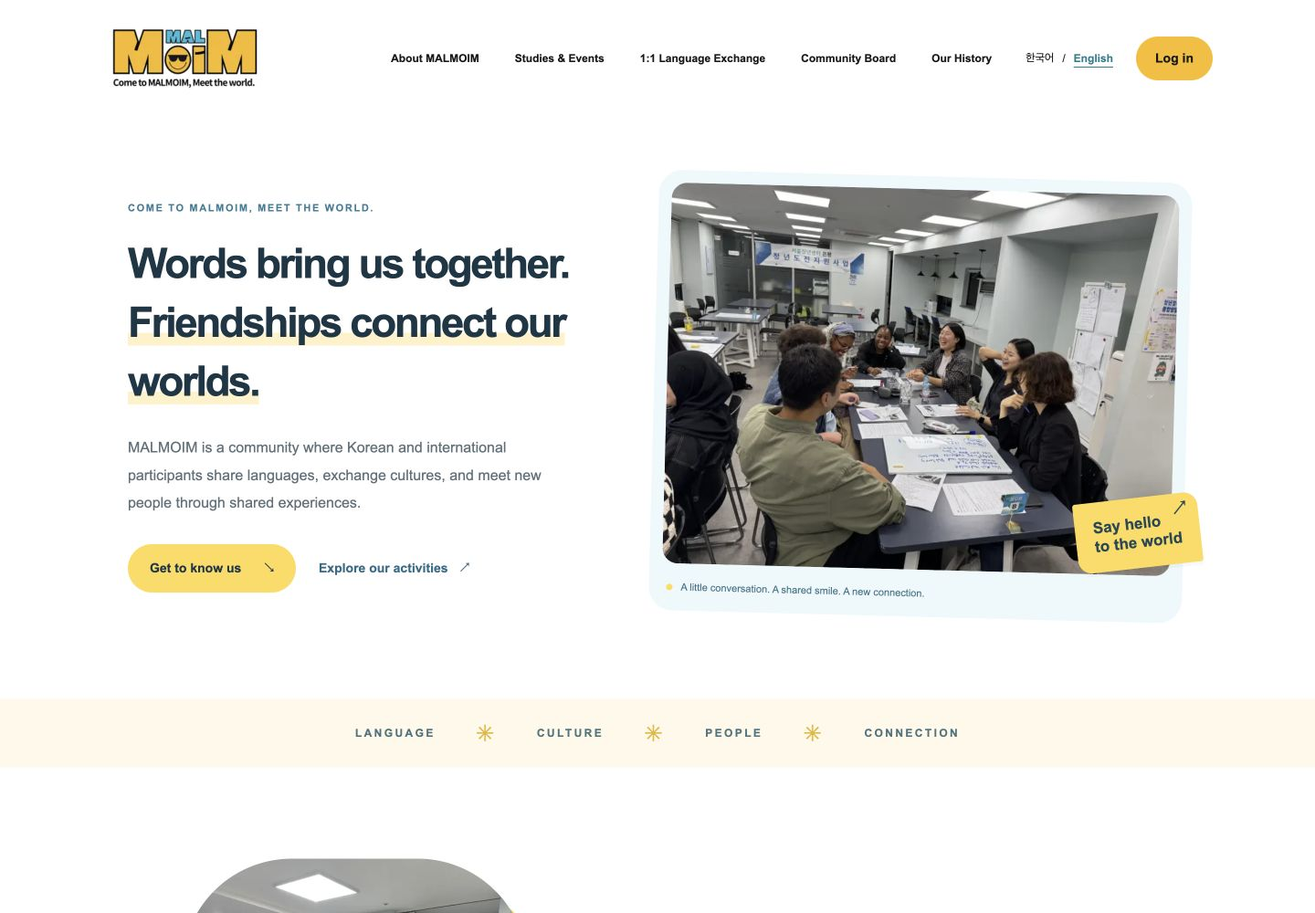
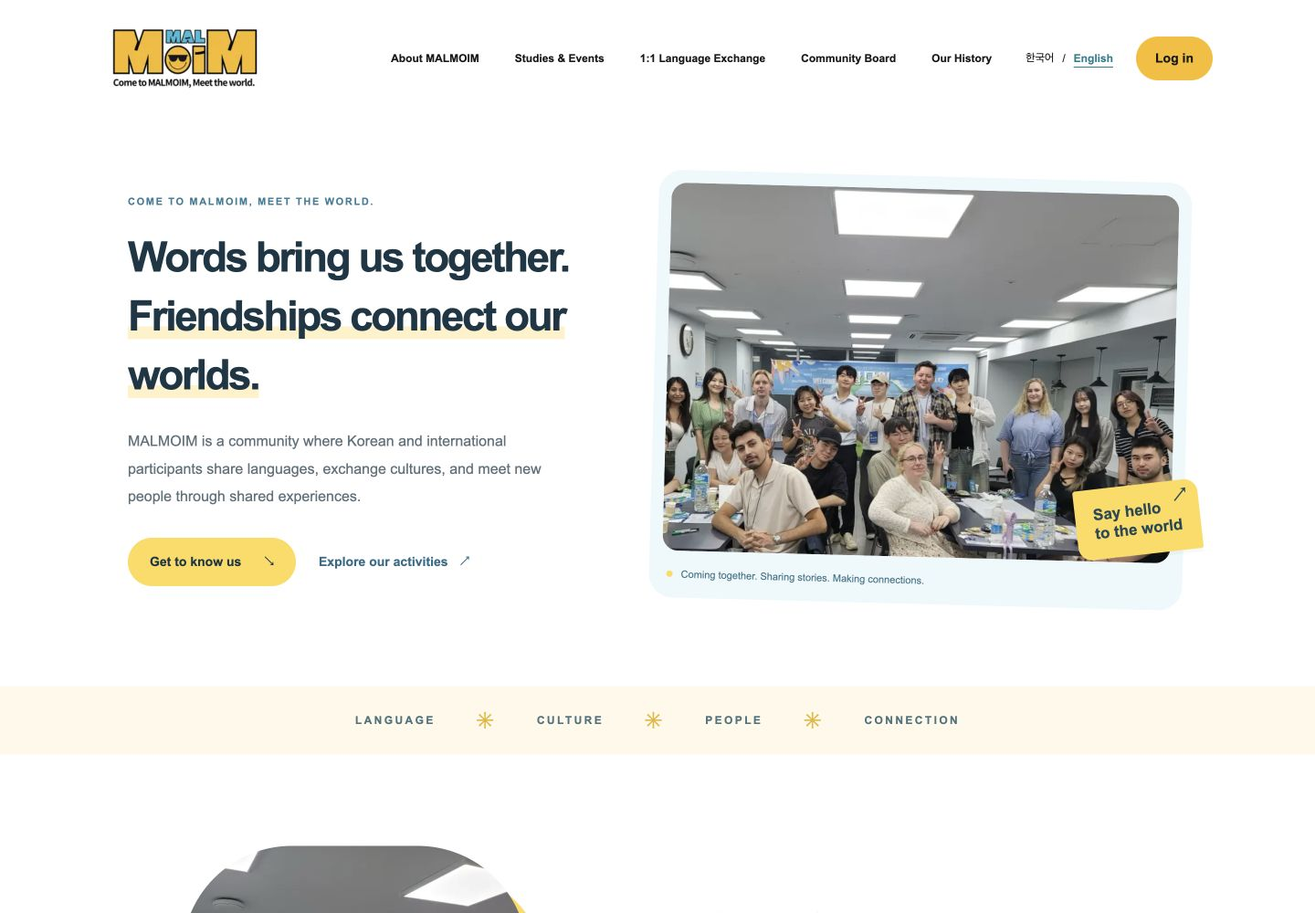
fix: replace homepage photos in the requested order

diff --git a/src/components/public-home.tsx b/src/components/public-home.tsx
@@ -15,15 +15,15 @@ export function PublicHome({ locale = 'ko' }: { locale?: PublicLocale }) {
   return <main id="public-main" className="malmoim-home" lang={locale} tabIndex={-1}>
     <section className="mh-hero mh-wrap" aria-labelledby="mh-title">
       <div className="mh-hero-copy"><p className="mh-eyebrow">COME TO MALMOIM, MEET THE WORLD.</p><h1 id="mh-title">{t('말로 이어지는 세계,', 'Words bring us together.')}<br /><span>{t('마음으로 연결되는 사람들', 'Friendships connect our worlds.')}</span></h1><p className="mh-lead">{t('말모임은 한국인과 외국인이 함께 언어와 문화를 나누고, 다양한 활동을 통해 새로운 사람들을 만나는 커뮤니티입니다.', 'MALMOIM is a community where Korean and international participants share languages, exchange cultures, and meet new people through shared experiences.')}</p><div className="mh-actions"><a className="mh-button" href="#mh-about">{t('말모임 알아보기', 'Get to know us')} <span aria-hidden="true">↘</span></a><a className="mh-link" href="#mh-activities">{t('활동 살펴보기', 'Explore our activities')} <span aria-hidden="true">↗</span></a></div></div>
-      <figure className="mh-hero-photo"><HomePhoto photo={homePhotos.hero} locale={locale} hero /><figcaption><span className="mh-photo-dot" />{t('함께 웃고, 이야기하고, 가까워지는 순간.', 'A little conversation. A shared smile. A new connection.')}</figcaption><span className="mh-photo-sticker" aria-hidden="true">Say hello<br />to the world <span>↗</span></span></figure>
+      <figure className="mh-hero-photo"><HomePhoto photo={homePhotos.hero} locale={locale} hero /><figcaption><span className="mh-photo-dot" />{t('함께 만나고, 이야기하고, 가까워지는 순간.', 'Coming together. Sharing stories. Making connections.')}</figcaption><span className="mh-photo-sticker" aria-hidden="true">Say hello<br />to the world <span>↗</span></span></figure>
     </section>
     <div className="mh-ribbon" aria-hidden="true"><span>LANGUAGE</span><span className="mh-ribbon-star">✳</span><span>CULTURE</span><span className="mh-ribbon-star">✳</span><span>PEOPLE</span><span className="mh-ribbon-star">✳</span><span>CONNECTION</span></div>
-    <section id="mh-about" className="mh-about mh-section mh-wrap" aria-labelledby="mh-about-title"><figure className="mh-intro-photo"><HomePhoto photo={homePhotos.intro} locale={locale} /><figcaption>{t('서로의 이야기에 귀 기울이는 시간', 'Making room for each other’s stories')}</figcaption></figure><div className="mh-about-copy"><p className="mh-eyebrow">HELLO, WE’RE MALMOIM</p><h2 id="mh-about-title">{t('말 한마디로 시작되는', 'Every connection starts')}<br />{t('새로운 만남', 'with a simple hello.')}</h2><p>{t('말모임에서는 서로 다른 언어와 문화를 가진 사람들이 만납니다. 함께 대화하며 언어를 연습하고, 다양한 활동을 통해 서로를 알아갑니다.', 'At MALMOIM, people with different languages and cultures come together. We practice through conversation and get to know one another through shared activities.')}</p><p>{t('새로운 말을 배우는 즐거움부터 새로운 사람들과 함께하는 순간까지, 말모임에서 여러분의 이야기를 나눠보세요.', 'From the joy of learning a new expression to the moments you share with new friends, there’s room for your story at MALMOIM.')}</p><span className="mh-handwritten">{t('다른 언어, 함께하는 우리.', 'Different languages. A world in common.')}</span></div></section>
+    <section id="mh-about" className="mh-about mh-section mh-wrap" aria-labelledby="mh-about-title"><figure className="mh-intro-photo"><HomePhoto photo={homePhotos.intro} locale={locale} /><figcaption>{t('함께 활동하며 알아가는 시간', 'Getting to know each other through shared activities')}</figcaption></figure><div className="mh-about-copy"><p className="mh-eyebrow">HELLO, WE’RE MALMOIM</p><h2 id="mh-about-title">{t('말 한마디로 시작되는', 'Every connection starts')}<br />{t('새로운 만남', 'with a simple hello.')}</h2><p>{t('말모임에서는 서로 다른 언어와 문화를 가진 사람들이 만납니다. 함께 대화하며 언어를 연습하고, 다양한 활동을 통해 서로를 알아갑니다.', 'At MALMOIM, people with different languages and cultures come together. We practice through conversation and get to know one another through shared activities.')}</p><p>{t('새로운 말을 배우는 즐거움부터 새로운 사람들과 함께하는 순간까지, 말모임에서 여러분의 이야기를 나눠보세요.', 'From the joy of learning a new expression to the moments you share with new friends, there’s room for your story at MALMOIM.')}</p><span className="mh-handwritten">{t('다른 언어, 함께하는 우리.', 'Different languages. A world in common.')}</span></div></section>
     <section className="mh-session-section" aria-labelledby="mh-session-title"><div className="mh-session mh-wrap mh-section"><div className="mh-session-copy"><p className="mh-eyebrow">MALMOIM REGULAR SESSION</p><h2 id="mh-session-title">{t('언어를 나누고,', 'Share a language.')}<br />{t('사람을 만나는 ', 'Make a connection in ')}<span>{t('6주', '6 weeks.')}</span></h2><p>{t('말모임 정규 세션에서는 한국인과 외국인이 함께 만나 언어를 연습하고 서로의 이야기를 나눕니다.', 'Our regular sessions bring Korean and international participants together to practice languages and share their stories.')}</p><p>{t('6주 동안 주 2회 운영되며, 대화와 교류를 통해 서로를 알아가는 시간을 만들어갑니다.', 'Sessions run twice a week over six weeks, creating space to talk, exchange, and get to know one another.')}</p><ul className="mh-session-facts"><li><b>6</b><span>{t('주 프로그램', 'week program')}</span></li><li><b>2</b><span>{t('주 2회 운영', 'sessions each week')}</span></li><li><b>↔</b><span>{t('함께하는 언어교환', 'language exchange')}</span></li></ul><p className="mh-session-note">{t('목요일·토요일에 운영하며, 9기 참여자는 희망 요일에 주 1회 참여합니다. 특별 행사·파티·축제·MT는 별도 활동입니다.', 'Sessions run on Thursdays and Saturdays. Season 9 participants attend once a week on their chosen day. Outdoor events, parties, festivals, and getaways are separate activities.')}</p><Link className="mh-button" href={en ? '/season9/en' : '/season9'}>{t('정규 세션 알아보기', 'Explore regular sessions')} <span aria-hidden="true">↗</span></Link></div><figure className="mh-session-photo"><HomePhoto photo={homePhotos.session} locale={locale} /><figcaption><span>01 / REGULAR SESSION</span>{t('이야기를 나누는 사이, 조금 더 가까이.', 'A little closer with every conversation.')}</figcaption></figure></div></section>
-    <section id="mh-activities" className="mh-section mh-wrap" aria-labelledby="mh-activities-title"><div className="mh-section-heading"><div><p className="mh-eyebrow">MORE WAYS TO CONNECT</p><h2 id="mh-activities-title">{t('말모임에서는 이런 순간을 함께해요', 'There’s more than one way to connect.')}</h2></div><p>{t('대화로 시작된 만남은 다양한 경험과 추억으로 이어집니다.', 'What starts with a conversation grows into shared experiences and memories.')}</p></div><div className="mh-activities">{homeActivities.map((activity, index) => <article key={activity.id} className={`mh-activity mh-activity-${activity.id} mh-tone-${activity.tone}`}><div className="mh-activity-visual">{index === 0 ? <HomePhoto photo={homePhotos.outdoors} locale={locale} /> : <div className="mh-type-art" aria-hidden="true"><span>{activity.motif}</span><b>{index === 1 ? '✳' : index === 2 ? '↗' : '↔'}</b></div>}</div><div className="mh-activity-copy"><p className="mh-activity-label"><span>0{index + 1}</span>{homeWords(activity.label, locale)}</p><h3>{homeWords(activity.title, locale)}</h3><p>{homeWords(activity.description, locale)}</p></div></article>)}</div></section>
+    <section id="mh-activities" className="mh-section mh-wrap" aria-labelledby="mh-activities-title"><div className="mh-section-heading"><div><p className="mh-eyebrow">MORE WAYS TO CONNECT</p><h2 id="mh-activities-title">{t('말모임에서는 이런 순간을 함께해요', 'There’s more than one way to connect.')}</h2></div><p>{t('대화로 시작된 만남은 다양한 경험과 추억으로 이어집니다.', 'What starts with a conversation grows into shared experiences and memories.')}</p></div><div className="mh-activities">{homeActivities.map((activity, index) => <article key={activity.id} className={`mh-activity mh-activity-${activity.id} mh-tone-${activity.tone}`}><div className="mh-activity-visual"><HomePhoto photo={activity.photo} locale={locale} /></div><div className="mh-activity-copy"><p className="mh-activity-label"><span>0{index + 1}</span>{homeWords(activity.label, locale)}</p><h3>{homeWords(activity.title, locale)}</h3><p>{homeWords(activity.description, locale)}</p></div></article>)}</div></section>
     <section className="mh-audience-section" aria-labelledby="mh-audience-title"><div className="mh-wrap mh-section"><div className="mh-section-heading"><div><p className="mh-eyebrow">DIFFERENT WORDS, SHARED EXCITEMENT</p><h2 id="mh-audience-title">{t('서로 다른 언어, 같은 설렘', 'Different languages. The same excitement.')}</h2></div></div><div className="mh-audience">{homeAudience.map((audience, index) => <article key={index}><span className="mh-audience-label">{homeWords(audience.label, locale)}</span><h3>{homeWords(audience.title, locale)}</h3><ul>{audience.points.map((point, n) => <li key={n}><span aria-hidden="true">↗</span>{homeWords(point, locale)}</li>)}</ul></article>)}</div></div></section>
     <section id="mh-programs" className="mh-section mh-wrap" aria-labelledby="mh-programs-title"><div className="mh-section-heading"><div><p className="mh-eyebrow">YOUR NEXT CHAPTER</p><h2 id="mh-programs-title">{t('말모임의 다음 이야기에 함께하세요', 'Be part of our next chapter.')}</h2></div><p>{t('지금 참여할 수 있는 프로그램과 새로운 소식을 확인해보세요.', 'Explore program details, opportunities to join, and the latest news.')}</p></div><PublicHomePrograms locale={locale} /><div className="mh-more-programs"><Link className="mh-link" href={publicPath(locale, 'events')}>{t('스터디·이벤트 모두 보기', 'All studies & events')} <span aria-hidden="true">↗</span></Link></div></section>
-    <section className="mh-moments-section" aria-labelledby="mh-moments-title"><div className="mh-wrap mh-section"><div className="mh-section-heading"><div><p className="mh-eyebrow">THE MOMENTS WE SHARE</p><h2 id="mh-moments-title">{t('함께해서 더 특별했던 순간들', 'Ordinary moments. Extraordinary company.')}</h2></div><p>{t('말모임에서 만나고 함께했던 다양한 순간들을 만나보세요.', 'A glimpse of the conversations, discoveries, and moments we’ve shared.')}</p></div><div className="mh-gallery">{[{ photo: homePhotos.night, caption: t('함께 빛나는 순간', 'A moment to shine together') }, { photo: homePhotos.making, caption: t('함께 만들어가는 즐거움', 'The joy of making something together') }, { photo: homePhotos.table, caption: t('식탁에서 이어지는 이야기', 'Stories around the table') }].map(({ photo, caption }) => <figure key={photo.src}><HomePhoto photo={photo} locale={locale} /><figcaption>{caption}</figcaption></figure>)}</div><div className="mh-history-link"><Link className="mh-link" href={publicPath(locale, 'history')}>{t('말모임 히스토리 더 보기', 'More from our history')} <span aria-hidden="true">↗</span></Link></div></div></section>
+    <section className="mh-moments-section" aria-labelledby="mh-moments-title"><div className="mh-wrap mh-section"><div className="mh-section-heading"><div><p className="mh-eyebrow">THE MOMENTS WE SHARE</p><h2 id="mh-moments-title">{t('함께해서 더 특별했던 순간들', 'Ordinary moments. Extraordinary company.')}</h2></div><p>{t('말모임에서 만나고 함께했던 다양한 순간들을 만나보세요.', 'A glimpse of the conversations, discoveries, and moments we’ve shared.')}</p></div><div className="mh-gallery">{[{ photo: homePhotos.hanbok, caption: t('새로운 문화를 함께 만나는 순간', 'Discovering culture together') }, { photo: homePhotos.conversation, caption: t('대화로 조금 더 가까이', 'A little closer through conversation') }, { photo: homePhotos.outing, caption: t('새로운 장소에서 함께 남긴 기억', 'Shared memories in a new place') }].map(({ photo, caption }) => <figure key={photo.src}><HomePhoto photo={photo} locale={locale} /><figcaption>{caption}</figcaption></figure>)}</div><div className="mh-history-link"><Link className="mh-link" href={publicPath(locale, 'history')}>{t('말모임 히스토리 더 보기', 'More from our history')} <span aria-hidden="true">↗</span></Link></div></div></section>
     <section className="mh-final mh-wrap mh-section" aria-labelledby="mh-final-title"><p className="mh-eyebrow">COME AS YOU ARE. START WITH HELLO.</p><h2 id="mh-final-title">{t('우리의 다음 이야기를', 'The next chapter starts')}<br /><span>{t('함께 만들어요', 'with you.')}</span></h2><p>{t('언어와 문화, 그리고 사람을 만나는 시간.', 'Languages, cultures, and the people who connect them.')}<br />{t('말모임에서 새로운 이야기를 시작해보세요.', 'Start a new story at MALMOIM.')}</p><div className="mh-actions"><a className="mh-button" href="#mh-programs">{t('프로그램 살펴보기', 'Explore programs')} <span aria-hidden="true">↗</span></a><a className="mh-link" href={homeContact} target="_blank" rel="noopener noreferrer">{t('말모임 문의하기', 'Contact MALMOIM')} <span aria-hidden="true">↗</span></a></div></section>
   </main>;
 }

diff --git a/src/lib/public-home-content.ts b/src/lib/public-home-content.ts
@@ -4,20 +4,23 @@ export type HomeWords = { ko: string; en: string };
 export const homeWords = (words: HomeWords, locale: PublicLocale) => words[locale];
 const words = (ko: string, en: string): HomeWords => ({ ko, en });
 export const homePhotos = {
-  hero: { src: '/home/moments/conversation.webp', width: 1600, height: 1200, alt: words('테이블에 둘러앉아 함께 웃으며 대화하는 말모임 참여자들', 'MALMOIM participants laughing and talking around a table') },
-  intro: { src: '/home/moments/table-talk.webp', width: 1200, height: 1600, alt: words('활동지를 펼쳐 놓고 서로의 이야기에 귀 기울이는 참여자들', 'Participants listening to one another with activity sheets on the table') },
-  session: { src: '/home/moments/session.webp', width: 1600, height: 1200, alt: words('화이트보드와 활동지를 활용해 소그룹으로 대화하는 참여자들', 'A small group talking with activity sheets and a whiteboard') },
-  outdoors: { src: '/home/moments/outdoors.webp', width: 1600, height: 1200, alt: words('나무가 있는 야외에서 말모임 현수막을 들고 함께 기념사진을 찍는 참여자들', 'Participants holding a MALMOIM banner for a group photo outdoors') },
-  night: { src: '/home/moments/night-together.webp', width: 1600, height: 900, alt: words('밤에 야외에서 스파클러를 들고 함께 시간을 보내는 참여자들', 'Participants spending an evening together outdoors with sparklers') },
-  table: { src: '/home/moments/at-the-table.webp', width: 1600, height: 1200, alt: words('식탁에 둘러앉아 함께 기념사진을 찍는 참여자들', 'Participants gathered around a dining table for a photo') },
-  making: { src: '/home/moments/making.webp', width: 1200, height: 1600, alt: words('함께 웃으며 종이와 막대로 연을 만드는 참여자들', 'Participants smiling while making a kite with paper and sticks') },
-  group: { src: '/home/moments/group.webp', width: 1600, height: 1159, alt: words('모임 공간에서 함께 단체사진을 찍는 참여자들', 'Participants posing together in the meeting space') },
+  hero: { src: '/home/moments/hero-group.webp', width: 1600, height: 1159, alt: words('모임 공간에서 함께 기념사진을 찍는 말모임 참여자들', 'MALMOIM participants posing for a group photo in the meeting space') },
+  intro: { src: '/home/moments/intro-whiteboard.webp', width: 1220, height: 1600, alt: words('화이트보드를 들어 보이며 함께 활동하는 참여자들', 'Participants taking part in a group activity with a whiteboard') },
+  session: { src: '/home/moments/regular-session.webp', width: 1600, height: 1200, alt: words('정규 세션에서 테이블에 둘러앉아 활동지를 들어 보이는 참여자들', 'Participants sitting around a table and holding up activity sheets during a regular session') },
+  outdoors: { src: '/home/moments/outdoors-banner.webp', width: 1200, height: 1600, alt: words('나무가 있는 야외에서 말모임 현수막을 함께 들고 있는 참여자들', 'Participants holding a MALMOIM banner together outdoors among the trees') },
+  party: { src: '/home/moments/party-table.webp', width: 1600, height: 1200, alt: words('식탁에 둘러앉아 함께 기념사진을 찍는 말모임 참여자들', 'MALMOIM participants gathered around a dining table for a photo') },
+  festival: { src: '/home/moments/festival-booth.webp', width: 1600, height: 1200, alt: words('축제 현장의 말모임 체험 부스에서 함께 사진을 찍는 참여자들', 'Participants posing at the MALMOIM activity booth at a festival') },
+  mt: { src: '/home/moments/mt-sparklers.webp', width: 1600, height: 900, alt: words('밤에 야외에서 스파클러를 들고 함께하는 참여자들', 'Participants spending an evening outdoors together with sparklers') },
+  group: { src: '/home/moments/program-session.webp', width: 1600, height: 1200, alt: words('모임 공간에서 여러 소그룹으로 나뉘어 활동하는 참여자들', 'Participants taking part in small-group activities in the meeting space') },
+  hanbok: { src: '/home/moments/gallery-hanbok.webp', width: 1600, height: 1200, alt: words('한복을 입고 청사초롱 장식 아래 함께 서 있는 참여자들', 'Participants wearing hanbok and posing together beneath lantern decorations') },
+  conversation: { src: '/home/moments/gallery-conversation.webp', width: 1200, height: 1600, alt: words('테이블에 둘러앉아 활동지를 함께 보며 대화하는 참여자들', 'Participants talking around a table while looking at activity sheets together') },
+  outing: { src: '/home/moments/gallery-outing.webp', width: 1200, height: 1600, alt: words('한옥 건물 앞에서 말모임 현수막을 들고 기념사진을 찍는 참여자들', 'Participants holding a MALMOIM banner for a group photo in front of a hanok building') },
 } as const;
 export const homeActivities = [
-  { id: 'outdoors', label: words('특별 야외행사', 'Outdoor events'), title: words('새로운 장소에서\n함께하는 시간', 'New places.\nShared experiences.'), description: words('일상을 벗어나 다양한 장소에서 만나고 교류합니다.', 'Step out of the everyday to meet and connect in different places.'), motif: 'OUT\n& ABOUT', tone: 'sky' },
-  { id: 'party', label: words('파티', 'Parties'), title: words('함께여서\n더 즐거운 파티', 'Good company.\nGreat moments.'), description: words('새로운 사람들과 어울리며 즐거운 순간을 나눕니다.', 'Meet new people and share moments of joy together.'), motif: 'HELLO,\nFRIENDS!', tone: 'yellow' },
-  { id: 'festival', label: words('축제 참여 및 부스 운영', 'Festivals & community booths'), title: words('축제 속에서\n만나는 말모임', 'Meet MALMOIM\nat the festival.'), description: words('축제에 참여하고 부스를 운영하며 다양한 사람들을 만납니다.', 'Take part in festivals and run booths, connecting with people along the way.'), motif: 'MEET\nMALMOIM', tone: 'cream' },
-  { id: 'mt', label: words('MT', 'Community getaways'), title: words('더 가까워지는 우리', 'A little closer, together.'), description: words('함께 시간을 보내며 말모임의 새로운 추억을 만듭니다.', 'Spend time together and make new MALMOIM memories.'), motif: 'CLOSER\nTOGETHER', tone: 'blue' },
+  { id: 'outdoors', label: words('특별 야외행사', 'Outdoor events'), title: words('새로운 장소에서\n함께하는 시간', 'New places.\nShared experiences.'), description: words('일상을 벗어나 다양한 장소에서 만나고 교류합니다.', 'Step out of the everyday to meet and connect in different places.'), photo: homePhotos.outdoors, tone: 'sky' },
+  { id: 'party', label: words('파티', 'Parties'), title: words('함께여서\n더 즐거운 파티', 'Good company.\nGreat moments.'), description: words('새로운 사람들과 어울리며 즐거운 순간을 나눕니다.', 'Meet new people and share moments of joy together.'), photo: homePhotos.party, tone: 'yellow' },
+  { id: 'festival', label: words('축제 참여 및 부스 운영', 'Festivals & community booths'), title: words('축제 속에서\n만나는 말모임', 'Meet MALMOIM\nat the festival.'), description: words('축제에 참여하고 부스를 운영하며 다양한 사람들을 만납니다.', 'Take part in festivals and run booths, connecting with people along the way.'), photo: homePhotos.festival, tone: 'cream' },
+  { id: 'mt', label: words('MT', 'Community getaways'), title: words('더 가까워지는 우리', 'A little closer, together.'), description: words('함께 시간을 보내며 말모임의 새로운 추억을 만듭니다.', 'Spend time together and make new MALMOIM memories.'), photo: homePhotos.mt, tone: 'blue' },
 ] as const;
 // Edit upcoming programs here. Existing application/registration logic remains in the Season 9 routes.
 export const homePrograms = [{

diff --git a/src/components/public-home-design.css b/src/components/public-home-design.css
@@ -6,3 +6,7 @@
 @media(max-width:900px){.malmoim-home .mh-wrap{padding-inline:30px}.malmoim-home .mh-section{padding-block:75px}.malmoim-home .mh-hero{grid-template-columns:1fr;padding-block:45px 65px;gap:45px}.malmoim-home .mh-hero-copy{max-width:670px}.malmoim-home .mh-hero h1{font-size:44px}.malmoim-home .mh-lead{max-width:620px}.malmoim-home .mh-hero-photo{max-width:700px;width:100%;margin:auto;transform:none}.malmoim-home .mh-photo-sticker{right:-10px}.malmoim-home .mh-hero-photo img{max-height:none}.malmoim-home .mh-ribbon{gap:25px;font-size:10px}.malmoim-home .mh-about{gap:35px}.malmoim-home .mh-intro-photo{width:90%}.malmoim-home .mh-session{grid-template-columns:1fr;gap:35px}.malmoim-home .mh-session-copy{max-width:650px}.malmoim-home .mh-activity-copy{padding:26px}.malmoim-home .mh-type-art{min-height:210px;padding:26px}.malmoim-home .mh-activity-party .mh-type-art{min-height:260px}.malmoim-home .mh-type-art>span{font-size:44px}.malmoim-home .mh-type-art>b{font-size:155px}.malmoim-home .mh-audience h3{font-size:26px}.malmoim-home .mh-program{grid-template-columns:1fr 1fr}.malmoim-home .mh-program-body{padding:25px}.malmoim-home .mh-program h3{font-size:30px}}
 @media(max-width:760px){.malmoim-home .mh-wrap{padding-inline:24px}.malmoim-home .mh-section{padding-block:60px}.malmoim-home .mh-hero{padding-block:35px 55px;gap:35px}.malmoim-home .mh-hero h1{font-size:clamp(30px,6vw,42px);line-height:1.45;margin-bottom:23px}.malmoim-home .mh-eyebrow{font-size:9px;margin-bottom:17px}.malmoim-home .mh-lead{font-size:15px;line-height:1.9;margin-bottom:26px}.malmoim-home .mh-actions{gap:20px}.malmoim-home .mh-button{font-size:13px;padding:14px 21px;min-height:50px;gap:20px}.malmoim-home .mh-link{font-size:13px}.malmoim-home .mh-hero-photo{padding:9px 9px 0;border-radius:19px}.malmoim-home .mh-hero-photo img{border-radius:12px}.malmoim-home .mh-hero-photo figcaption{font-size:10px;padding:14px 5px}.malmoim-home .mh-photo-sticker{font-size:13px;padding:14px 17px;bottom:48px;right:-6px}.malmoim-home .mh-ribbon{gap:15px;font-size:8px;letter-spacing:.12em;padding:22px 15px}.malmoim-home .mh-ribbon-star{font-size:16px}.malmoim-home h2{font-size:30px;line-height:1.4;margin-bottom:22px}.malmoim-home p{font-size:15px}.malmoim-home .mh-about{display:flex;flex-direction:column-reverse;gap:36px}.malmoim-home .mh-about-copy{width:100%}.malmoim-home .mh-about-copy p:not(.mh-eyebrow){max-width:none}.malmoim-home .mh-intro-photo{width:min(360px,85%)}.malmoim-home .mh-handwritten{font-size:14px}.malmoim-home .mh-session-facts b{font-size:32px}.malmoim-home .mh-session-facts span{font-size:11px}.malmoim-home .mh-session-note{font-size:12px}.malmoim-home .mh-session-photo figcaption{padding-bottom:0}.malmoim-home .mh-section-heading{gap:16px;margin-bottom:30px}.malmoim-home .mh-section-heading>p{font-size:14px;flex-shrink:1}.malmoim-home .mh-activities{grid-template-columns:1fr;gap:22px}.malmoim-home .mh-activity{border-radius:19px}.malmoim-home .mh-activity-copy{padding:25px}.malmoim-home .mh-activity h3{font-size:26px}.malmoim-home .mh-type-art{min-height:200px;padding:30px}.malmoim-home .mh-activity-party .mh-type-art{min-height:220px}.malmoim-home .mh-type-art>span{font-size:51px}.malmoim-home .mh-type-art>b{font-size:180px}.malmoim-home .mh-audience{grid-template-columns:1fr;gap:36px}.malmoim-home .mh-audience article{padding-top:28px}.malmoim-home .mh-audience h3{font-size:27px}.malmoim-home .mh-audience li{font-size:14px}.malmoim-home .mh-program{grid-template-columns:1fr;border-radius:20px}.malmoim-home .mh-program-photo{padding:15px}.malmoim-home .mh-program-body{padding:28px}.malmoim-home .mh-program h3{font-size:32px}.malmoim-home .mh-gallery{grid-template-columns:1fr;gap:23px}.malmoim-home .mh-gallery figure:nth-child(2){grid-column:auto;grid-row:auto;width:80%;margin-inline:auto}.malmoim-home .mh-gallery figure:nth-child(3){width:100%}.malmoim-home .mh-gallery figcaption{font-size:11px}.malmoim-home .mh-final h2{font-size:35px}.malmoim-home .mh-final p:not(.mh-eyebrow){font-size:15px}}
 @media(prefers-reduced-motion:reduce){.malmoim-home *{scroll-behavior:auto;transition:none}}
+/* All four activity panels now use user-selected photographs, with full scenes preserved. */
+.malmoim-home .mh-activity-party .mh-activity-visual{display:block;flex:initial}
+.malmoim-home .mh-activity-visual{background:#fff}
+@media(min-width:761px){.malmoim-home .mh-activity-visual,.malmoim-home .mh-activity-party .mh-activity-visual{height:360px;display:flex;align-items:center;justify-content:center;background:transparent}.malmoim-home .mh-activity-visual img{height:100%;width:100%;object-fit:contain}}

diff --git a/src/lib/public-metadata.ts b/src/lib/public-metadata.ts
@@ -6,5 +6,5 @@ export function publicMetadata(locale:PublicLocale,slug=""):Metadata {
   if(slug&&!page)notFound();
   const title=page?.title??(locale==="en"?"MALMOIM":"말모임 MALMOIM");
   const description=page?.description??(locale==="en"?"Words bring us together. Friendships connect our worlds. Meet MALMOIM, a community sharing languages, cultures, and experiences.":"말로 이어지는 세계, 마음으로 연결되는 사람들. 한국인과 외국인이 함께 언어와 문화를 나누는 말모임의 정규 세션과 다양한 활동을 만나보세요.");
-  return {title:slug?title:{absolute:title},description,alternates:{canonical:publicPath(locale,slug),languages:{ko:publicPath("ko",slug),en:publicPath("en",slug),"x-default":publicPath("ko",slug)}},openGraph:{title,description,locale:locale==="en"?"en_US":"ko_KR",url:publicPath(locale,slug),...(!slug?{images:[{url:"/home/moments/conversation.webp",width:1600,height:1200,alt:locale==="en"?"MALMOIM participants sharing a conversation":"함께 웃으며 대화하는 말모임 참여자들"}]}:{})}};
+  return {title:slug?title:{absolute:title},description,alternates:{canonical:publicPath(locale,slug),languages:{ko:publicPath("ko",slug),en:publicPath("en",slug),"x-default":publicPath("ko",slug)}},openGraph:{title,description,locale:locale==="en"?"en_US":"ko_KR",url:publicPath(locale,slug),...(!slug?{images:[{url:"/home/moments/hero-group.webp",width:1600,height:1159,alt:locale==="en"?"MALMOIM participants posing together":"함께 기념사진을 찍는 말모임 참여자들"}]}:{})}};
 }

diff --git a/docs/homepage-review/README.md b/docs/homepage-review/README.md
@@ -36,3 +36,8 @@
 - 한국어 모바일/PC 및 영어 PC 화면을 같은 폴더에 저장.
 
 기존 의존성 Next.js 16.4에서 보안 업데이트 권고가 표시됨. 이번 메인 UI 개편에는 프레임워크 버전 변경을 포함하지 않았다.
+
+
+## 2026-10-27 사진 교체
+
+사용자가 새로 지정한 10장을 첫 화면 → 소개 → 야외행사 → 파티 → 축제·부스 → MT → 9기 모집 카드 → 갤러리 1~3 순서로 적용. 정규 세션은 추가로 지정한 11번째 사진을 별도 적용했다. 한영 대체 설명과 갤러리 캡션, 공유 미리보기 사진도 장면에 맞게 변경. 기존 사진 분류 미확정에 따른 그래픽 3개는 실제 지정 사진으로 교체되었다. 이미지 전체 비율을 유지하며 PC 활동 사진은 contain으로 얼굴/장면을 보존한다. 기존 9기 신청 페이지 파일은 변경하지 않았다.
